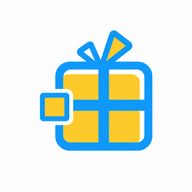
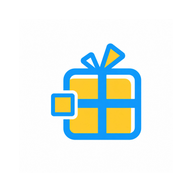
comit

Changed region(s): [[0.1875, 0.1562, 0.8125, 0.8125]]

diff --git a/vite.config.ts b/vite.config.ts
@@ -12,7 +12,7 @@ const FAVICON_VERSION = process.env.FAVICON_VERSION || String(Date.now())
 function injectFaviconVersion(html: string) {
   const v = FAVICON_VERSION
   return html
-    .replace(/href="\/(favicon\.ico|favicon\.svg|favicon-32\.png|logo\.jpeg|pwa-icon-192\.png|pwa-icon-192\.jpeg|pwa-icon-512\.jpeg)"/g, 'href="/$1?v=' + v + '"')
+    .replace(/href="\/(favicon\.ico|favicon\.svg|favicon-16\.png|favicon-32\.png|wishtenter-icon\.png|logo\.jpeg|pwa-icon-192\.png|pwa-icon-192\.jpeg|pwa-icon-512\.jpeg)"/g, 'href="/$1?v=' + v + '"')
 }
 
 function injectShareFixIntoHtml(html: string, site = PUBLIC_SHARE_SITE) {
@@ -62,8 +62,9 @@ export default defineConfig({
     VitePWA({
       registerType: 'autoUpdate',
       injectRegister: null,
-      includeAssets: ['favicon.ico', 'favicon.svg', 'favicon-32.png', 'logo.jpeg', 'pwa-icon-192.jpeg', 'pwa-icon-192.png', 'pwa-icon-512.jpeg'],
+      includeAssets: ['favicon.ico', 'favicon.svg', 'favicon-16.png', 'favicon-32.png', 'wishtenter-icon.png', 'logo.jpeg', 'pwa-icon-192.jpeg', 'pwa-icon-192.png', 'pwa-icon-512.png', 'pwa-icon-512.jpeg'],
       manifest: {
+        id: '/',
         name: 'Wishtenter',
         short_name: 'Wishtenter',
         description: 'Fund your dreams — receive gifts on your wishlist',
@@ -74,43 +75,42 @@ export default defineConfig({
         orientation: 'portrait',
         scope: '/',
         start_url: '/?source=pwa',
-        launch_handler: {
-          client_mode: 'navigate-existing',
-        },
         categories: ['social', 'finance', 'lifestyle'],
         icons: [
           {
-            src: '/favicon-32.png',
-            sizes: '32x32',
+            src: '/pwa-icon-192.png',
+            sizes: '192x192',
             type: 'image/png',
             purpose: 'any',
           },
           {
-            src: '/pwa-icon-192.jpeg',
-            sizes: '192x192',
-            type: 'image/jpeg',
+            src: '/pwa-icon-512.png',
+            sizes: '512x512',
+            type: 'image/png',
             purpose: 'any',
           },
           {
-            src: '/pwa-icon-512.jpeg',
+            src: '/pwa-icon-512.png',
             sizes: '512x512',
-            type: 'image/jpeg',
-            purpose: 'any',
-          },
-          {
-            src: '/pwa-icon-512.jpeg',
-            sizes: '512x512',
-            type: 'image/jpeg',
+            type: 'image/png',
             purpose: 'maskable',
           },
         ],
       },
       workbox: {
-        // Never precache index.html — always fetch latest share-fix + bundle
-        navigateFallback: null,
-        globPatterns: ['**/*.{js,css,ico,png,jpg,jpeg,svg,woff2,webmanifest}'],
-        globIgnores: ['**/index.html', '**/404.html'],
+        navigateFallback: '/index.html',
+        navigateFallbackDenylist: [/^\/api\//, /^\/uploads\//, /^\/assets\//],
+        globPatterns: ['**/*.{js,css,html,ico,png,jpg,jpeg,svg,woff2,webmanifest}'],
         runtimeCaching: [
+          {
+            urlPattern: ({ request }) => request.mode === 'navigate',
+            handler: 'NetworkFirst',
+            options: {
+              cacheName: 'pages-cache',
+              networkTimeoutSeconds: 5,
+              cacheableResponse: { statuses: [0, 200] },
+            },
+          },
           {
             urlPattern: /^https:\/\/api\.dicebear\.com\/.*/i,
             handler: 'CacheFirst',

diff --git a/src/lib/runtimeConfig.ts b/src/lib/runtimeConfig.ts
@@ -29,15 +29,21 @@ export function getShareBase(): string {
   return DEFAULT_SHARE_BASE;
 }
 
-/** Preload config from Railway — share base works even before frontend redeploy (via meta tag). */
+/** Preload config — never block first paint (PWA cold start must render immediately). */
 export async function loadRuntimeConfig(): Promise<void> {
   cachedUploadsOrigin = getUploadsOrigin();
   cachedShareBase = getShareBase();
 
   if (import.meta.env.DEV) return;
 
+  const controller = new AbortController();
+  const timeout = window.setTimeout(() => controller.abort(), 4000);
+
   try {
-    const res = await fetch(`${PRODUCTION_BACKEND_ORIGIN}/api/config`, { cache: 'no-store' });
+    const res = await fetch(`${PRODUCTION_BACKEND_ORIGIN}/api/config`, {
+      cache: 'no-store',
+      signal: controller.signal,
+    });
     if (res.ok) {
       const data = (await res.json()) as { uploadsOrigin?: string; shareBase?: string };
       if (data.uploadsOrigin?.startsWith('http')) {
@@ -49,5 +55,7 @@ export async function loadRuntimeConfig(): Promise<void> {
     }
   } catch {
     /* meta tag + DEFAULT_SHARE_BASE fallback */
+  } finally {
+    window.clearTimeout(timeout);
   }
 }

diff --git a/index.html b/index.html
@@ -2,11 +2,10 @@
 <html lang="en">
   <head>
     <meta charset="UTF-8" />
-    <!-- Favicon: generated from public/logo.jpeg on each build -->
-    <link rel="icon" href="/favicon.ico" sizes="48x48" />
-    <link rel="icon" href="/favicon-32.png" type="image/png" sizes="32x32" />
-    <link rel="icon" href="/logo.jpeg" type="image/jpeg" sizes="512x512" />
-    <link rel="shortcut icon" href="/favicon.ico" />
+    <!-- Favicon: gift-box logo from public/logo.jpeg -->
+    <link rel="icon" href="/wishtenter-icon.png" type="image/png" sizes="32x32" />
+    <link rel="icon" href="/favicon-16.png" type="image/png" sizes="16x16" />
+    <link rel="shortcut icon" href="/wishtenter-icon.png" type="image/png" />
     <link rel="apple-touch-icon" sizes="192x192" href="/pwa-icon-192.jpeg" />
     <link rel="apple-touch-icon" sizes="512x512" href="/pwa-icon-512.jpeg" />
     <link rel="manifest" href="/manifest.webmanifest" />

diff --git a/src/main.tsx b/src/main.tsx
@@ -14,9 +14,6 @@ if (import.meta.env.PROD) {
         setInterval(() => registration.update(), 60 * 60 * 1000);
       }
     },
-    onNeedRefresh() {
-      window.location.reload();
-    },
   });
 }
 
@@ -29,13 +26,14 @@ async function bootstrap() {
     document.documentElement.classList.add('pwa-standalone');
   }
 
-  await loadRuntimeConfig()
-
+  // Render immediately — config loads in background (don't block PWA cold start)
   createRoot(document.getElementById('root')!).render(
     <StrictMode>
       <App />
     </StrictMode>,
   )
+
+  void loadRuntimeConfig()
 }
 
 bootstrap()